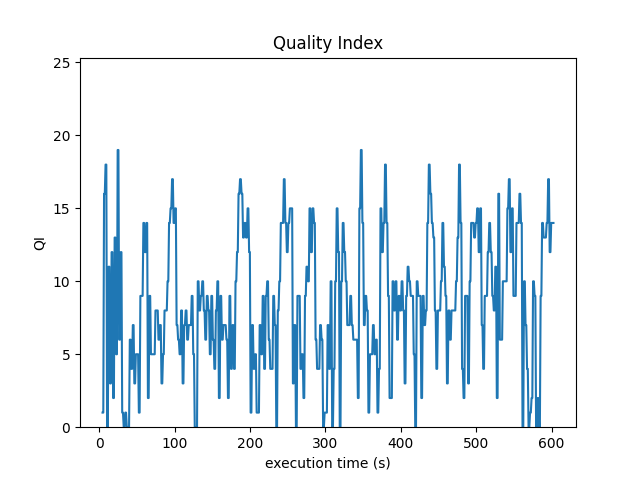
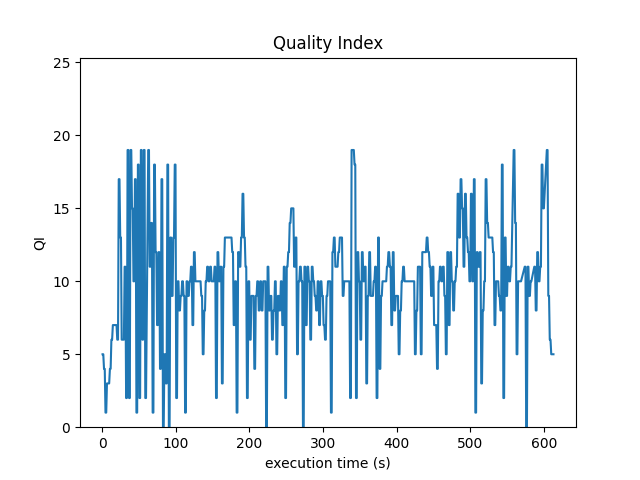
Joga n

diff --git a/r2a/r2a_qknn.py b/r2a/r2a_qknn.py
@@ -28,14 +28,14 @@ class R2A_QKNN(IR2A):
         # Contadores e métricas para ajuste dinâmico dos parâmetros
         self.episode_count = 0  # Contador de episódios
         self.reward_history = []  # Histórico de recompensas
-        self.parameter_update_interval = 25  # Intervalo para ajustar parâmetros (a cada 50 episódios)
+        self.parameter_update_interval = 10  # Intervalo para ajustar parâmetros (a cada 50 episódios)
 
         # Parâmetros de streaming de vídeo
-        self.segment_duration = 2  # Duração de cada segmento de vídeo (em segundos)
+        self.segment_duration = 1  # Duração de cada segmento de vídeo (em segundos)
         self.B_safe = 15           # Nível seguro de buffer (em segundos)
         
         # Vetor de coeficientes para cálculo aproximado do SSIM (extraído do vídeo BigBuckBunny)
-        self.d = [0.011651186243177895, -0.012434481516153652, -0.0017859401909209828, -3.7032177029078504e-05]
+        self.d = [0.017901738412493887, -0.006908148312984288, -0.00017270496637129657, 0.00010360865155566306]
         
         # Rastreamento de estado
         self.throughputs = []     # Histórico de throughputs medidos
@@ -196,25 +196,33 @@ class R2A_QKNN(IR2A):
                 self.tau = max(self.tau * 0.9, 0.1)  # Reduz a temperatura (explora menos)
                 self.alpha = max(self.alpha * 0.9, 1.0)  # Reduz a penalidade de suavidade
                 self.beta = max(self.beta * 0.9, 0.001)  # Reduz a penalidade de buffer
+                self.parameter_update_interval = max(self.parameter_update_interval - 5, 10) #Reduz o intervalo para ajustar mais rápido
             else:
                 # Se a recompensa média for positiva, ajusta os parâmetros para explorar menos
                 self.eta = max(self.eta * 0.9, 0.01)  # Reduz a taxa de aprendizado (até no mínimo 0.01)
                 self.gamma = max(self.gamma * 0.95, 0.5)  # Reduz o fator de desconto (até no mínimo 0.5)
                 self.tau = min(self.tau * 1.1, 2.0)  # Aumenta a temperatura (explora mais)
                 self.alpha = min(self.alpha * 1.1, 100.0)  # Aumenta a penalidade de suavidade
-                self.beta = min(self.beta * 1.1, 0.01)  # Aumenta a penalidade de buffer
+                # Ajusta as penalidades com base em métricas específicas
+                if self.buffer_level < self.B_safe:
+                    # Se o buffer estiver abaixo do nível seguro, reduz a penalidade de buffer
+                    self.beta = max(self.beta * 0.9, 0.001)
+                else:
+                    # Se o buffer estiver acima do nível seguro, aumenta a penalidade de buffer
+                    self.beta = min(self.beta * 1.1, 0.01)
 
             # Ajuste dinâmico do valor de k
             if avg_reward < 0:
                 # Se a recompensa média for negativa, aumenta k para explorar mais
-                self.k = min(self.k + 1, 5)  # Aumenta k (até no máximo 10)
+                self.k = min(self.k + 1, 5)  # Aumenta k (até no máximo 5)
             elif avg_reward < 0.6:
                 # Se a recompensa média for positiva, reduz k para explorar menos
-                self.k = max(self.k - 1, 3)  # Reduz k (até no mínimo 1)
+                self.k = max(self.k - 1, 3)  # Reduz k (até no mínimo 3)
 
             print(f"Parâmetros ajustados: eta={self.eta}, gamma={self.gamma}, tau={self.tau}, alpha={self.alpha}, beta={self.beta}, k={self.k}")
         else:
             print("Recompensa média acima de 0.6. Parâmetros não ajustados.")
+            self.parameter_update_interval = min(self.parameter_update_interval + 5, 50)
 
         # Reinicia o histórico de recompensas
         self.reward_history = []

diff --git a/ssim_calculation/vectorD_calculation.py b/ssim_calculation/vectorD_calculation.py
@@ -30,7 +30,7 @@ bitrates = np.array(bitrates)
 ssim_values = np.array(ssim_values)
 
 # Normalizar os bitrates
-R1 = 4219897
+R1 = 4726737
 normalized_bitrates = bitrates / R1
 log_normalized_bitrates = np.log(normalized_bitrates)
 
